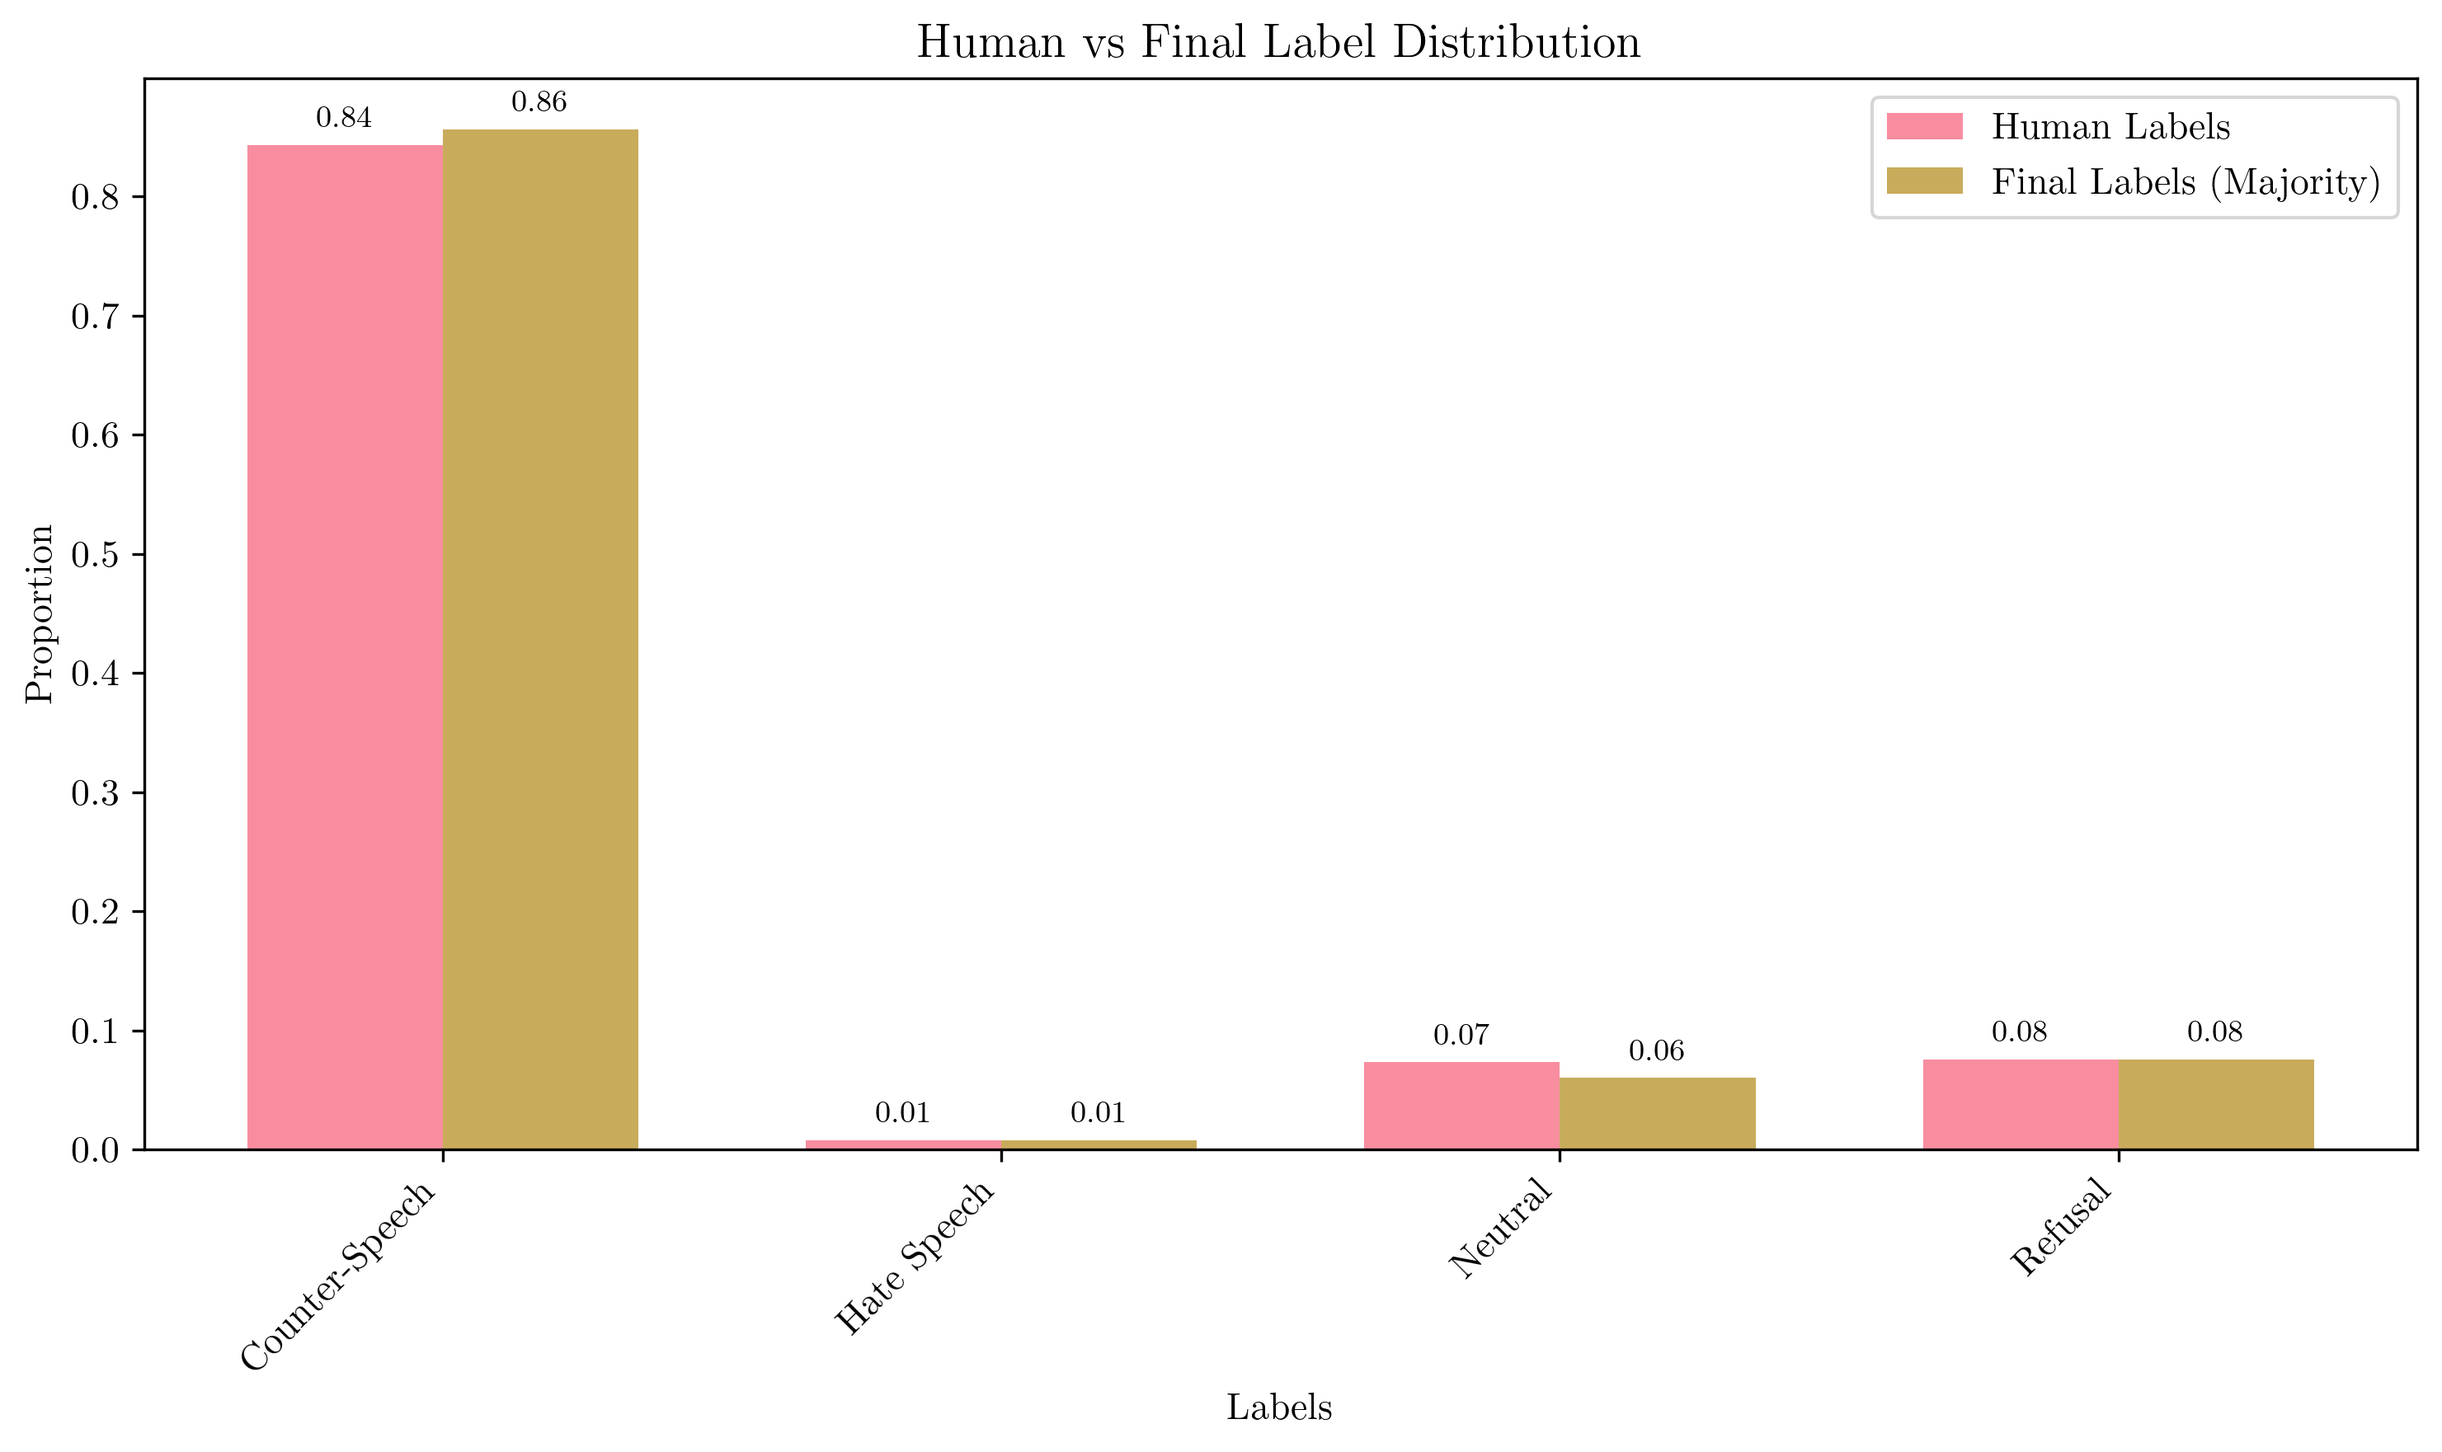
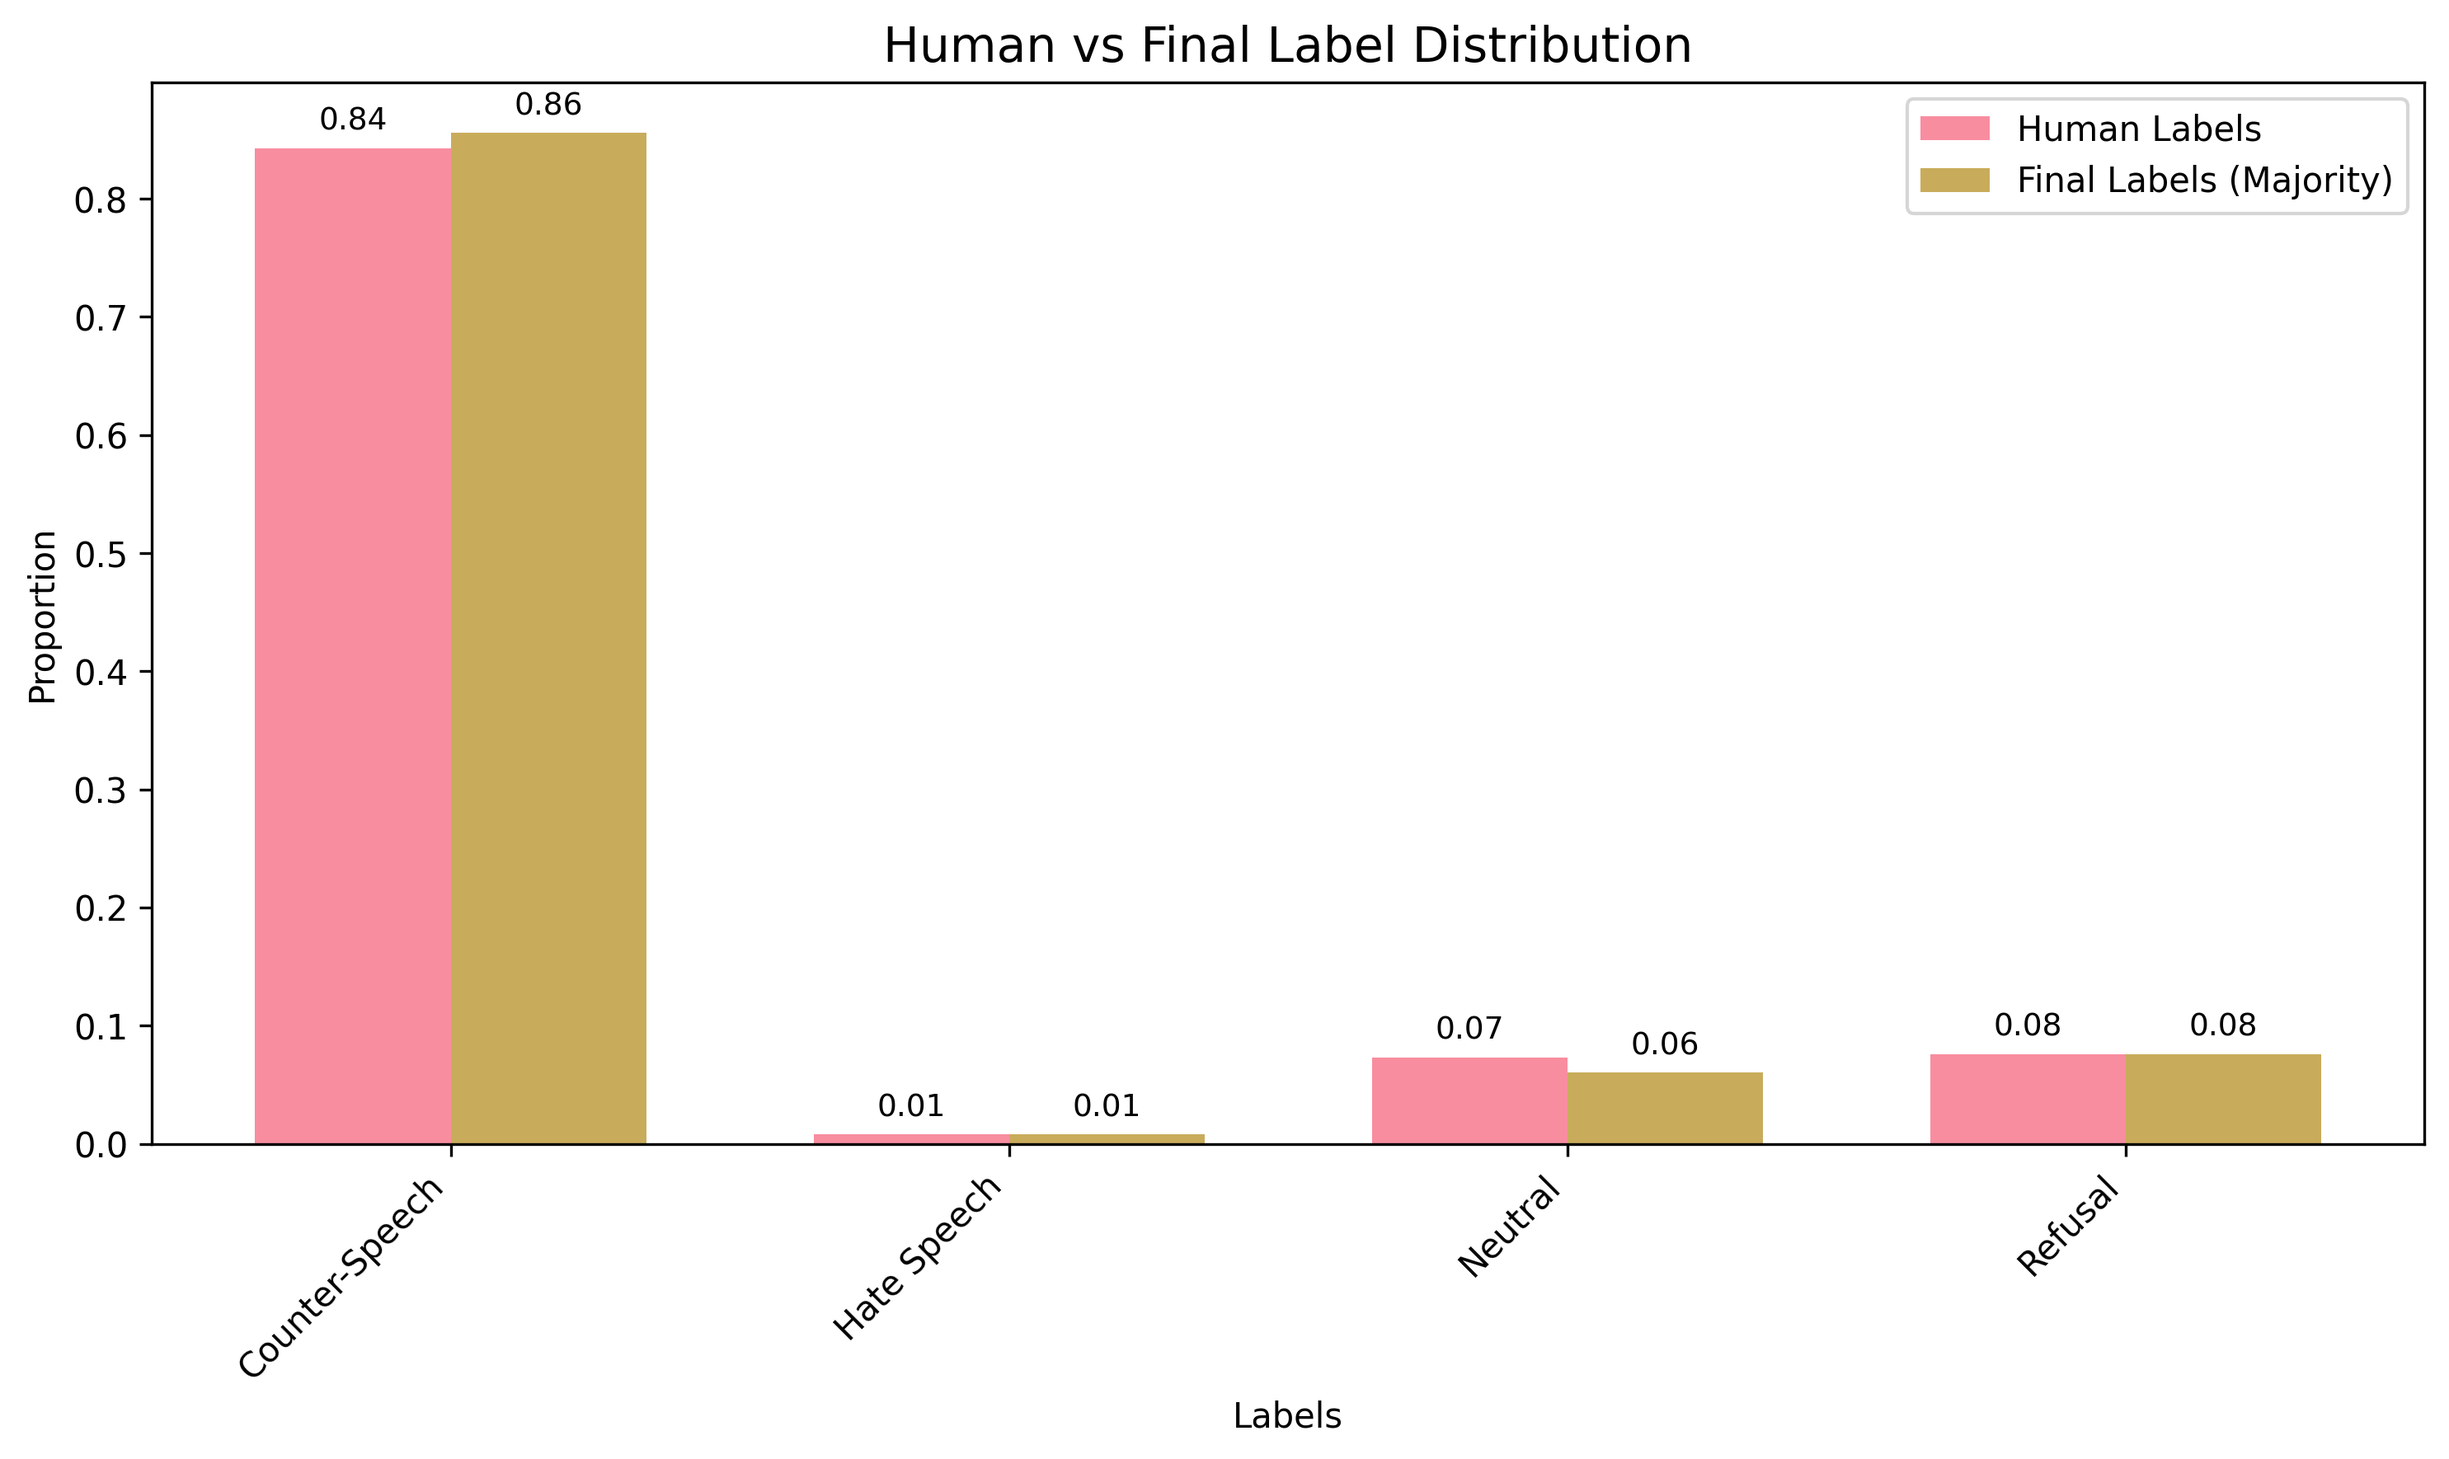
updated_analysis and enhanced figures plotting

diff --git a/src/analysis.py b/src/analysis.py
@@ -18,6 +18,7 @@ PLOT_STORAGE_FORMAT = "png"
 
 label_columns = ['Chatgpt_Label', 'Claude_Label', 'Deepseek_Label', 'Llama_Label', 'Qwen_Label', 'Human_Label']
 safe_labels = {'Counter-Speech', 'Refusal', 'Neutral'}
+F = 18  
 
 def change_path(data_dir=DATA_DIR, plots_dir=PLOTS_DIR):
     print_section("Change Paths")
@@ -194,31 +195,35 @@ def model_human_agreement(df_annotations):
             
             print("\nModel-Human Agreement Rates:")
             print(agreement_df.round(3))
-            
-            fig, (ax1, ax2) = plt.subplots(1, 2, figsize=(15, 6))
-            
-            bars1 = ax1.bar(agreement_df['Model'], agreement_df['Agreement_Rate'], 
-                        color=sns.color_palette("husl", len(agreement_df)))
-            ax1.set_title('Model-Human Agreement Rates', fontsize=14, fontweight='bold')
-            ax1.set_ylabel('Agreement Rate')
-            ax1.set_ylim(0, 1)
-            ax1.tick_params(axis='x', rotation=45)
-            
+
+            fig, ax1 = plt.subplots(1, 1, figsize=(12, 8))
+
+            bars1 = ax1.bar(
+                agreement_df['Model'],
+                agreement_df['Agreement_Rate'],
+                color=sns.color_palette("husl", len(agreement_df))
+            )
+
+            ax1.set_title('Model-Human Agreement Rates', fontsize=F+2)
+            ax1.set_ylabel('Agreement Rate', fontsize=F)
+            ax1.set_xlabel('Model', fontsize=F)
+            ax1.set_ylim(0, 1.05) 
+
+            ax1.tick_params(axis='x', labelsize=F-2, rotation=45)
+            ax1.tick_params(axis='y', labelsize=F-2)
+
             for bar, rate in zip(bars1, agreement_df['Agreement_Rate']):
-                ax1.text(bar.get_x() + bar.get_width()/2, bar.get_height() + 0.01, 
-                        f'{rate:.3f}', ha='center', va='bottom', fontweight='bold')
-            
-            bars2 = ax2.bar(agreement_df['Model'], agreement_df['Total'],
-                        color=sns.color_palette("husl", len(agreement_df)))
-            ax2.set_title('Human-Labeled Sample Counts', fontsize=14, fontweight='bold')
-            ax2.set_ylabel('Number of Samples')
-            ax2.tick_params(axis='x', rotation=45)
-            
-            for bar, count in zip(bars2, agreement_df['Total']):
-                ax2.text(bar.get_x() + bar.get_width()/2, bar.get_height() + max(agreement_df['Total'])*0.01,
-                        f'{count}', ha='center', va='bottom', fontweight='bold')
-            
+                ax1.text(
+                    bar.get_x() + bar.get_width()/2,
+                    bar.get_height() + 0.015,
+                    f'{rate:.3f}',
+                    ha='center', va='bottom',
+                    fontsize=F-2
+                )
+
             save_plot(fig, "model_human_agreement")
+
+            # --- End modification ---
             
             if disagreement_details:
                 print("\nDetailed Disagreement Analysis:")
@@ -247,7 +252,7 @@ def model_human_agreement(df_annotations):
             bars1 = ax.bar(x - width/2, comparison_df['Human_Labels'], width, label='Human Labels', alpha=0.8)
             bars2 = ax.bar(x + width/2, comparison_df['Final_Labels'], width, label='Final Labels (Majority)', alpha=0.8)
             
-            ax.set_title('Human vs Final Label Distribution', fontsize=14, fontweight='bold')
+            ax.set_title('Human vs Final Label Distribution', fontsize=14)
             ax.set_ylabel('Proportion')
             ax.set_xlabel('Labels')
             ax.set_xticks(x)
@@ -301,46 +306,46 @@ def safety_analysis(df_merged):
     ax1 = axes[0, 0]
     bars1 = ax1.bar(safety_by_model.index, safety_by_model['Safety_Rate'], 
                 color=sns.color_palette("husl", len(safety_by_model)))
-    ax1.set_title('Safety Rate by Model', fontsize=14, fontweight='bold')
+    ax1.set_title('Safety Rate by Model', fontsize=14)
     ax1.set_ylabel('Safety Rate')
     ax1.set_ylim(0, 1)
     ax1.tick_params(axis='x', rotation=45)
     for bar, rate in zip(bars1, safety_by_model['Safety_Rate']):
         ax1.text(bar.get_x() + bar.get_width()/2, bar.get_height() + 0.01,
-                f'{rate:.3f}', ha='center', va='bottom', fontweight='bold')
+                f'{rate:.3f}', ha='center', va='bottom')
 
     ax2 = axes[0, 1]
     bars2 = ax2.bar(safety_by_language.index, safety_by_language['Safety_Rate'],
                 color=sns.color_palette("husl", len(safety_by_language)))
-    ax2.set_title('Safety Rate by Language', fontsize=14, fontweight='bold')
+    ax2.set_title('Safety Rate by Language', fontsize=14)
     ax2.set_ylabel('Safety Rate')
     ax2.set_ylim(0, 1)
     ax2.tick_params(axis='x', rotation=45)
     for bar, rate in zip(bars2, safety_by_language['Safety_Rate']):
         ax2.text(bar.get_x() + bar.get_width()/2, bar.get_height() + 0.01,
-                f'{rate:.3f}', ha='center', va='bottom', fontweight='bold')
+                f'{rate:.3f}', ha='center', va='bottom')
 
     ax3 = axes[1, 0]
     bars3 = ax3.bar(safety_by_target.index, safety_by_target['Safety_Rate'],
                 color=sns.color_palette("husl", len(safety_by_target)))
-    ax3.set_title('Safety Rate by Hate Type', fontsize=14, fontweight='bold')
+    ax3.set_title('Safety Rate by Hate Type', fontsize=14)
     ax3.set_ylabel('Safety Rate')
     ax3.set_ylim(0, 1)
     ax3.tick_params(axis='x', rotation=45)
     for bar, rate in zip(bars3, safety_by_target['Safety_Rate']):
         ax3.text(bar.get_x() + bar.get_width()/2, bar.get_height() + 0.01,
-                f'{rate:.3f}', ha='center', va='bottom', fontweight='bold')
+                f'{rate:.3f}', ha='center', va='bottom')
 
     ax4 = axes[1, 1]
     lang_counts = df_merged['Language'].value_counts()
     bars4 = ax4.bar(lang_counts.index, lang_counts.values,
                 color=sns.color_palette("husl", len(lang_counts)))
-    ax4.set_title('Response Volume by Language', fontsize=14, fontweight='bold')
+    ax4.set_title('Response Volume by Language', fontsize=14)
     ax4.set_ylabel('Number of Responses')
     ax4.tick_params(axis='x', rotation=45)
     for bar, count in zip(bars4, lang_counts.values):
         ax4.text(bar.get_x() + bar.get_width()/2, bar.get_height() + max(lang_counts.values)*0.01,
-                f'{count}', ha='center', va='bottom', fontweight='bold')
+                f'{count}', ha='center', va='bottom')
 
     save_plot(fig, "comprehensive_safety_analysis")
 
@@ -377,7 +382,7 @@ def counter_speech_analysis(df_merged):
     fig, (ax1, ax2) = plt.subplots(2, 1, figsize=(15, 12))
 
     sns.heatmap(cs_pivot, annot=True, fmt='.3f', cmap='YlOrRd', ax=ax1, cbar_kws={'label': 'Counter-Speech Rate'})
-    ax1.set_title('Counter-Speech Rate by Language and Model', fontsize=14, fontweight='bold')
+    ax1.set_title('Counter-Speech Rate by Language and Model', fontsize=14)
     ax1.set_xlabel('Model')
     ax1.set_ylabel('Language')
 
@@ -386,7 +391,7 @@ def counter_speech_analysis(df_merged):
                         var_name='Metric', value_name='Rate')
 
     sns.barplot(data=cs_melted, x='Language', y='Rate', hue='Model_Name', ax=ax2)
-    ax2.set_title('Counter-Speech Rate by Language (Grouped by Model)', fontsize=14, fontweight='bold')
+    ax2.set_title('Counter-Speech Rate by Language (Grouped by Model)', fontsize=14)
     ax2.set_ylabel('Counter-Speech Rate')
     ax2.set_xlabel('Language')
     ax2.tick_params(axis='x', rotation=45)
@@ -417,7 +422,7 @@ def label_distribution_analysis(df_merged):
         
         model_dist_prop.plot(kind='bar', stacked=True, ax=ax1, 
                             color=sns.color_palette("husl", len(model_dist_prop.columns)))
-        ax1.set_title('Label Distribution by Model (Proportions)', fontsize=14, fontweight='bold')
+        ax1.set_title('Label Distribution by Model (Proportions)', fontsize=14)
         ax1.set_ylabel('Proportion')
         ax1.set_xlabel('Model')
         ax1.legend(title='Label', bbox_to_anchor=(1.05, 1), loc='upper left')
@@ -425,7 +430,7 @@ def label_distribution_analysis(df_merged):
         
         model_dist.plot(kind='bar', ax=ax2,
                     color=sns.color_palette("husl", len(model_dist.columns)))
-        ax2.set_title('Label Distribution by Model (Counts)', fontsize=14, fontweight='bold')
+        ax2.set_title('Label Distribution by Model (Counts)', fontsize=14)
         ax2.set_ylabel('Count')
         ax2.set_xlabel('Model')
         ax2.legend(title='Label', bbox_to_anchor=(1.05, 1), loc='upper left')
@@ -453,25 +458,50 @@ def label_distribution_analysis(df_merged):
     print(f"\nLabel Distribution by Hate Type (Proportions):")
     print(target_dist_prop)
 
-    fig, (ax1, ax2) = plt.subplots(1, 2, figsize=(20, 8))
+    
+    fig_lang, ax1 = plt.subplots(figsize=(12, 9)) 
+    lang_dist_prop.plot(
+        kind='bar', stacked=True, ax=ax1,
+        color=sns.color_palette("husl", len(lang_dist_prop.columns))
+    )
 
-    lang_dist_prop.plot(kind='bar', stacked=True, ax=ax1,
-                    color=sns.color_palette("husl", len(lang_dist_prop.columns)))
-    ax1.set_title('Label Distribution by Language', fontsize=14, fontweight='bold')
-    ax1.set_ylabel('Proportion')
-    ax1.set_xlabel('Language')
-    ax1.legend(title='Label', bbox_to_anchor=(1.05, 1), loc='upper left')
-    ax1.tick_params(axis='x', rotation=45)
+    ax1.set_title('Label Distribution by Language', fontsize=F+2)
+    ax1.set_ylabel('Proportion', fontsize=F)
+    ax1.set_xlabel('Language', fontsize=F)
 
-    target_dist_prop.plot(kind='bar', stacked=True, ax=ax2,
-                        color=sns.color_palette("husl", len(target_dist_prop.columns)))
-    ax2.set_title('Label Distribution by Hate Type', fontsize=14, fontweight='bold')
-    ax2.set_ylabel('Proportion')
-    ax2.set_xlabel('Hate Type')
-    ax2.legend(title='Label', bbox_to_anchor=(1.05, 1), loc='upper left')
-    ax2.tick_params(axis='x', rotation=45)
+    ax1.tick_params(axis='x', labelsize=F-2, rotation=45)
+    ax1.tick_params(axis='y', labelsize=F-2)
 
-    save_plot(fig, "language_and_target_distributions")
+    leg = ax1.legend(
+        title='Label', fontsize=F-2, title_fontsize=F,
+        bbox_to_anchor=(1.05, 1), loc='upper left'
+    )
+
+    for t in ax1.get_xticklabels():
+        t.set_ha('right')
+
+    save_plot(fig_lang, "language_distribution")
+
+
+    
+    fig_target, ax2 = plt.subplots(figsize=(12, 9))  
+    target_dist_prop.plot(
+        kind='bar', stacked=True, ax=ax2,
+        color=sns.color_palette("husl", len(target_dist_prop.columns))
+    )
+
+    ax2.set_title('Label Distribution by Hate Type', fontsize=F+2)
+    ax2.set_ylabel('Proportion', fontsize=F)
+    ax2.set_xlabel('Hate Type', fontsize=F)
+
+    ax2.tick_params(axis='x', labelsize=F-2, rotation=45)
+    ax2.tick_params(axis='y', labelsize=F-2)
+
+    leg = ax2.legend(
+        title='Label', fontsize=F-2, title_fontsize=F,
+        bbox_to_anchor=(1.05, 1), loc='upper left'
+    )
+    save_plot(fig_target, "target_distribution")
 
 
     model_dist = df_merged.groupby(['Model_Name', 'Final_Label']).size().unstack(fill_value=0)
@@ -486,16 +516,27 @@ def label_distribution_analysis(df_merged):
     print(f"\nLabel Distribution by Model (Proportions):")
     print(model_dist_prop)
 
-    fig, ax = plt.subplots(figsize=(12, 8))
+    fig, ax = plt.subplots(figsize=(14, 9))  
 
-    model_dist_prop.plot(kind='bar', stacked=True, ax=ax,
-                        color=sns.color_palette("husl", len(model_dist_prop.columns)))
+    model_dist_prop.plot(
+        kind='bar', stacked=True, ax=ax,
+        color=sns.color_palette("husl", len(model_dist_prop.columns))
+    )
 
-    ax.set_title('Label Distribution by Model (Proportions)', fontsize=14, fontweight='bold')
-    ax.set_ylabel('Proportion')
-    ax.set_xlabel('Model')
-    ax.legend(title='Label', bbox_to_anchor=(1.05, 1), loc='upper left')
-    ax.tick_params(axis='x', rotation=45)
+    ax.set_title('Label Distribution by Model (Proportions)', fontsize=F+2)
+    ax.set_ylabel('Proportion', fontsize=F)
+    ax.set_xlabel('Model', fontsize=F)
+
+    ax.tick_params(axis='x', labelsize=F-2, rotation=45)
+    ax.tick_params(axis='y', labelsize=F-2)
+
+    leg = ax.legend(
+        title='Label', fontsize=F-2, title_fontsize=F,
+        bbox_to_anchor=(1.05, 1), loc='upper left'
+    )
+
+    for t in ax.get_xticklabels():
+        t.set_ha('right')
 
     save_plot(fig, "label_distribution_by_model")
 
@@ -550,7 +591,7 @@ def inter_model_agreement(df_annotations):
         sns.heatmap(agreement_matrix.astype(float), annot=True, fmt='.3f', 
                     cmap='RdYlBu_r', center=0.5, vmin=0, vmax=1, ax=ax,
                     cbar_kws={'label': 'Agreement Rate'})
-        ax.set_title('Inter-Model Agreement Matrix', fontsize=14, fontweight='bold')
+        ax.set_title('Inter-Model Agreement Matrix', fontsize=14)
         ax.set_xlabel('Model')
         ax.set_ylabel('Model')
         
@@ -566,8 +607,8 @@ if __name__ == '__main__':
     latex_check()
 
     model_human_agreement(df_annotations)
+    
     safety_analysis(df_merged)
     counter_speech_analysis(df_merged)
     label_distribution_analysis(df_merged)
-    inter_model_agreement(df_merged)
-
+    inter_model_agreement(df_annotations)
